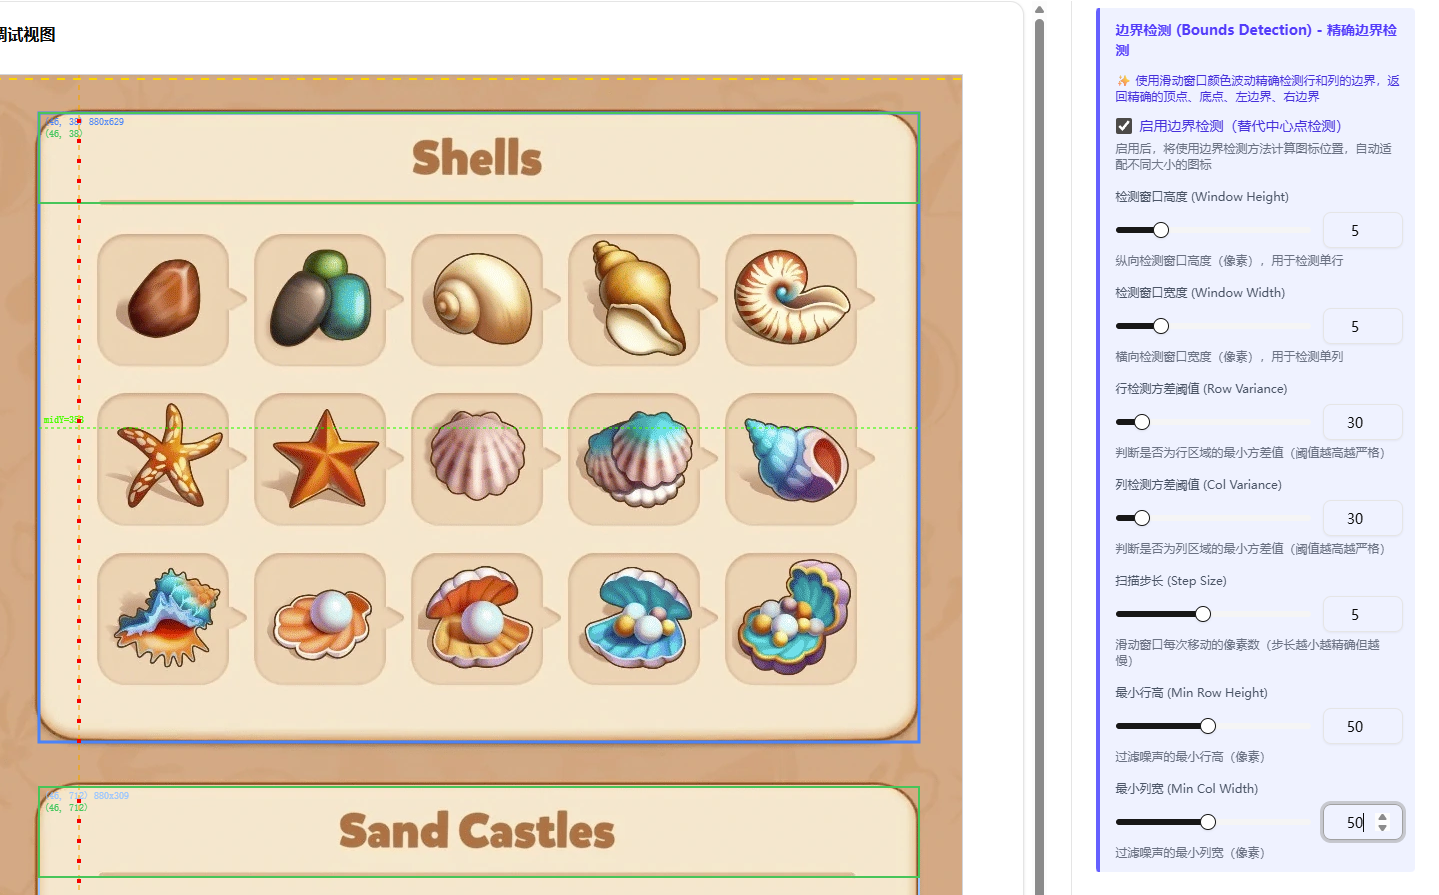
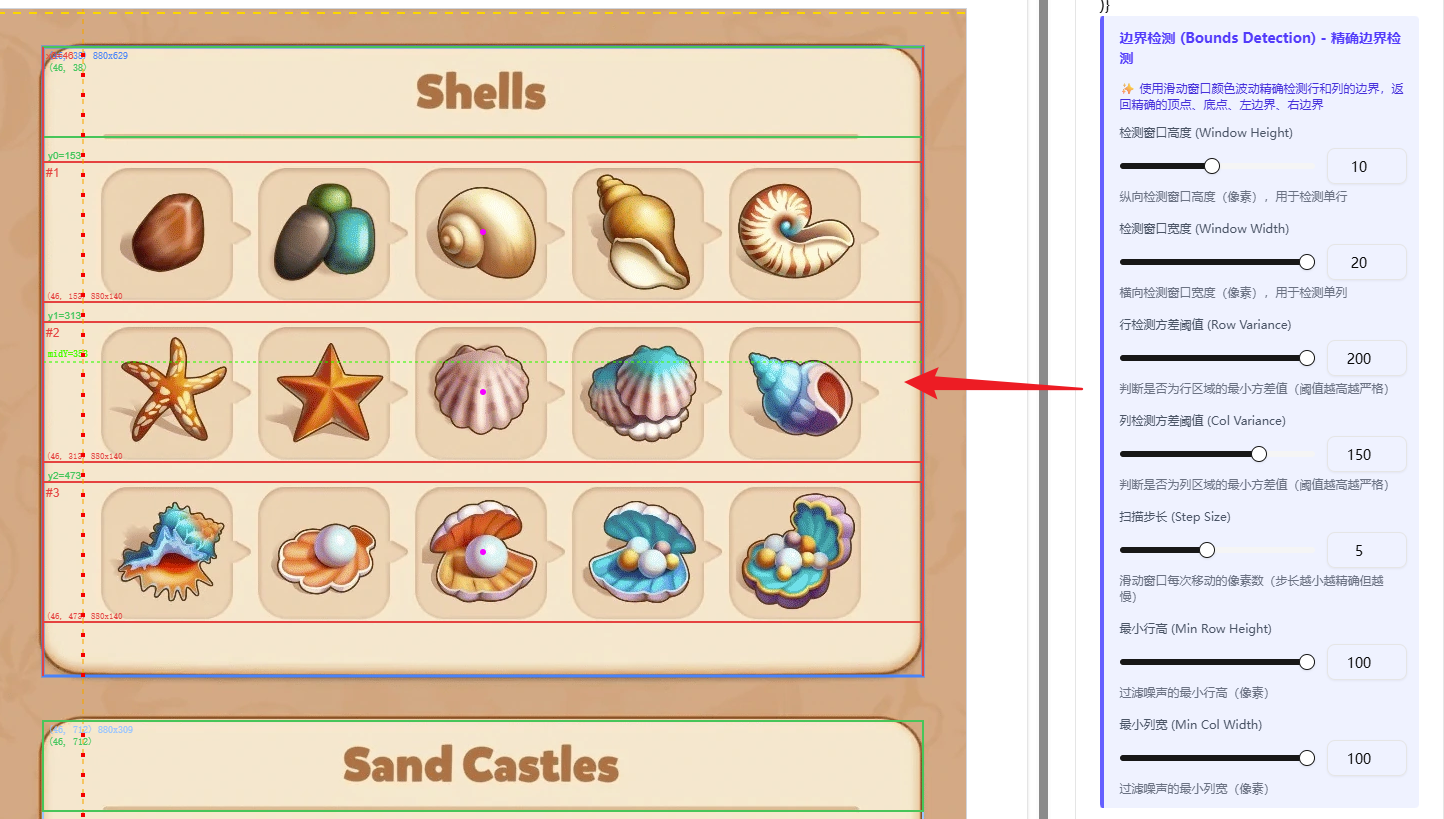
feat: 优化边界检测算法（行列独立阈值+扫描范围缩小）

diff --git a/src/app/debug/page.tsx b/src/app/debug/page.tsx
@@ -201,101 +201,6 @@ export default function WikiDebugPage() {
     return variance / (count * 3); // 返回平均方差
   };
 
-  // 计算图标位置（支持 total 限制 + 空图标过滤）- 使用中心点定位
-  const calculateIconPositions = useCallback((
-    panel: DebugPanel,
-    panelY: number,
-    ctx: CanvasRenderingContext2D
-  ): IconPosition[] => {
-    const { width, rows, cols, total } = panel;
-    const { gridStartX, gridStartY, iconSize, centerGapX, centerGapY, iconCenterOffsetX, iconCenterOffsetY } = params;
-
-    // 计算面板的左上角坐标（直接使用扫描线检测的坐标）
-    const panelX = panel.x;
-
-    // 首个中心点坐标（都基于检测到的 panelX 和 panelY）
-    const firstCenterX = panelX + gridStartX + iconCenterOffsetX;
-    const firstCenterY = panelY + gridStartY + iconCenterOffsetY;
-
-    const positions: IconPosition[] = [];
-    let count = 0;
-    const maxCount = total ?? (rows * cols); // 如果没有 total，则使用 rows * cols
-    const coreSize = 30; // 核心区域大小（正方形）
-    const varianceThreshold = 50; // 方差阈值，小于此值判定为空图标（降低阈值以提高灵敏度）
-
-    // 获取完整的像素数据
-    const imageData = ctx.getImageData(0, 0, ctx.canvas.width, ctx.canvas.height);
-
-    console.log(`  [详细坐标分析]`);
-    console.log(`    输入参数:`);
-    console.log(`      panel.x=${panel.x}, panel.y=${panel.y}`);
-    console.log(`      gridStartX=${gridStartX}, gridStartY=${gridStartY}`);
-    console.log(`      iconCenterOffsetX=${iconCenterOffsetX}, iconCenterOffsetY=${iconCenterOffsetY}`);
-    console.log(`    计算过程:`);
-    console.log(`      panelX = panel.x = ${panelX}`);
-    console.log(`      panelY = ${panelY}`);
-    console.log(`      firstCenterX = panelX + gridStartX + iconCenterOffsetX = ${panelX} + ${gridStartX} + ${iconCenterOffsetX} = ${firstCenterX}`);
-    console.log(`      firstCenterY = panelY + gridStartY + iconCenterOffsetY = ${panelY} + ${gridStartY} + ${iconCenterOffsetY} = ${firstCenterY}`);
-    console.log(`    首个图标左上角:`);
-    console.log(`      x = firstCenterX - iconSize/2 = ${firstCenterX} - ${iconSize/2} = ${firstCenterX - iconSize/2}`);
-    console.log(`      y = firstCenterY - iconSize/2 = ${firstCenterY} - ${iconSize/2} = ${firstCenterY - iconSize/2}`);
-
-    console.log(`  开始扫描图标位置，rows=${rows}, cols=${cols}, maxCount=${maxCount}`);
-    console.log(`  方差阈值: ${varianceThreshold}, 核心区域大小: ${coreSize}x${coreSize}`);
-    console.log(`  首个中心点: (${firstCenterX}, ${firstCenterY}), 中心点间距: X=${centerGapX}, Y=${centerGapY}`);
-
-    for (let row = 0; row < rows; row++) {
-      for (let col = 0; col < cols; col++) {
-        // 检查是否超过总数
-        if (count >= maxCount) {
-          break;
-        }
-
-        // 计算中心点坐标
-        const centerX = Math.round(firstCenterX + col * centerGapX);
-        const centerY = Math.round(firstCenterY + row * centerGapY);
-
-        // 从中心点计算左上角坐标（用于红框绘制）
-        const x = centerX - Math.round(iconSize / 2);
-        const y = centerY - Math.round(iconSize / 2);
-
-        // 获取icon中心区域的像素（用于检测空图标）
-        const coreX = centerX - Math.floor(coreSize / 2);
-        const coreY = centerY - Math.floor(coreSize / 2);
-
-        // 计算中心区域的颜色方差
-        const variance = calculateColorVariance(imageData, coreX, coreY, coreSize, coreSize);
-
-        const hasIcon = variance >= varianceThreshold;
-
-        console.log(`  [${row}, ${col}] 中心点: center(${centerX}, ${centerY}), 左上角: x=${x}, y=${y}, 方差=${variance.toFixed(2)}, ${hasIcon ? '✓ 有图标' : '✗ 空图标'}`);
-
-        if (hasIcon) {
-          positions.push({
-            x,  // 左上角 X
-            y,  // 左上角 Y
-            width: iconSize,
-            height: iconSize,
-            row,
-            col,
-          });
-          count++;
-        } else {
-          // 遇到空图标，直接结束当前面板的扫描
-          console.log(`  遇到空图标，结束面板扫描。共找到 ${positions.length} 个有效图标`);
-          return positions;
-        }
-      }
-      // 外层循环也需要检查，避免不必要的行
-      if (count >= maxCount) {
-        break;
-      }
-    }
-
-    console.log(`  扫描完成，共找到 ${positions.length} 个有效图标`);
-    return positions;
-  }, [params]);
-
   // 计算颜色差异
   const colorDiff = (color1: [number, number, number], color2: [number, number, number]): number => {
     return Math.max(
@@ -720,13 +625,23 @@ export default function WikiDebugPage() {
         // 使用边界检测方法检测图标位置
         console.log(`[检测方法] 使用边界检测方法`);
 
+        // 缩小扫描范围10像素，减少边界噪音
+        const padding = 10;
+        const scanX = range.startX + padding;
+        const scanY = range.startY + padding;
+        const scanWidth = range.width - padding * 2;
+        const scanHeight = range.height - padding * 2;
+
+        console.log(`[扫描范围] 原始: (${range.startX}, ${range.startY}) ${range.width}x${range.height}`);
+        console.log(`[扫描范围] 缩小: (${scanX}, ${scanY}) ${scanWidth}x${scanHeight}`);
+
         const bounds = detectAllBounds(
           Buffer.from(imageData.data),
           canvas.width,
-          range.startX,
-          range.startY,
-          range.width,
-          range.height,
+          scanX,
+          scanY,
+          scanWidth,
+          scanHeight,
           {
             windowHeight: params.boundsWindowHeight,
             windowWidth: params.boundsWindowWidth,
@@ -740,11 +655,28 @@ export default function WikiDebugPage() {
 
         console.log(`[边界检测] Panel: ${panel.title}`);
         console.log(`  检测到 ${bounds.rows.length} 行, ${bounds.cols.length} 列`);
+
+        // 警告：如果没有检测到行列
+        if (bounds.rows.length === 0) {
+          console.warn(`  ⚠ 未检测到任何行！请调整行检测参数：`);
+          console.warn(`    - 增大窗口高度 (当前: ${params.boundsWindowHeight})`);
+          console.warn(`    - 降低行检测方差阈值 (当前: ${params.boundsVarianceThresholdRow})`);
+          console.warn(`    - 降低最小行高 (当前: ${params.boundsMinRowHeight})`);
+        }
+
+        if (bounds.cols.length === 0) {
+          console.warn(`  ⚠ 未检测到任何列！请调整列检测参数：`);
+          console.warn(`    - 增大窗口宽度 (当前: ${params.boundsWindowWidth})`);
+          console.warn(`    - 降低列检测方差阈值 (当前: ${params.boundsVarianceThresholdCol})`);
+          console.warn(`    - 降低最小列宽 (当前: ${params.boundsMinColWidth})`);
+        }
+
         if (bounds.rows.length > 0) {
           bounds.rows.forEach((row, i) => {
             console.log(`  行 ${i}: y=${row.topY} ~ ${row.bottomY}, 高度=${row.height}`);
           });
         }
+
         if (bounds.cols.length > 0) {
           bounds.cols.forEach((col, i) => {
             console.log(`  列 ${i}: x=${col.leftX} ~ ${col.rightX}, 宽度=${col.width}`);
@@ -782,17 +714,17 @@ export default function WikiDebugPage() {
             ctx.strokeStyle = '#22C55E'; // 绿色
             ctx.lineWidth = 2;
             ctx.beginPath();
-            ctx.moveTo(range.startX, row.topY);
-            ctx.lineTo(range.startX + range.width, row.topY);
+            ctx.moveTo(scanX, row.topY);
+            ctx.lineTo(scanX + scanWidth, row.topY);
             ctx.stroke();
-            ctx.moveTo(range.startX, row.bottomY);
-            ctx.lineTo(range.startX + range.width, row.bottomY);
+            ctx.moveTo(scanX, row.bottomY);
+            ctx.lineTo(scanX + scanWidth, row.bottomY);
             ctx.stroke();
 
             // 标注行号
             ctx.fillStyle = '#22C55E';
             ctx.font = '10px Arial';
-            ctx.fillText(`y${row.rowIndex}=${Math.round(row.topY)}`, range.startX + 5, row.topY - 3);
+            ctx.fillText(`行${row.rowIndex}: y=${Math.round(row.topY)}~${Math.round(row.bottomY)}`, scanX + 5, row.topY - 3);
           });
 
           // 绘制列边界（红色竖线）
@@ -800,18 +732,26 @@ export default function WikiDebugPage() {
             ctx.strokeStyle = '#EF4444'; // 红色
             ctx.lineWidth = 2;
             ctx.beginPath();
-            ctx.moveTo(col.leftX, range.startY);
-            ctx.lineTo(col.leftX, range.startY + range.height);
+            ctx.moveTo(col.leftX, scanY);
+            ctx.lineTo(col.leftX, scanY + scanHeight);
             ctx.stroke();
-            ctx.moveTo(col.rightX, range.startY);
-            ctx.lineTo(col.rightX, range.startY + range.height);
+            ctx.moveTo(col.rightX, scanY);
+            ctx.lineTo(col.rightX, scanY + scanHeight);
             ctx.stroke();
 
             // 标注列号
             ctx.fillStyle = '#EF4444';
             ctx.font = '10px Arial';
-            ctx.fillText(`x${col.colIndex}=${Math.round(col.leftX)}`, col.leftX + 3, range.startY + 12);
+            ctx.fillText(`列${col.colIndex}: x=${Math.round(col.leftX)}~${Math.round(col.rightX)}`, col.leftX + 3, scanY + 12);
           });
+
+          // 在右上角显示检测统计
+          ctx.fillStyle = 'rgba(0, 0, 0, 0.7)';
+          ctx.fillRect(scanX + scanWidth - 150, scanY, 150, 40);
+          ctx.fillStyle = '#FFFFFF';
+          ctx.font = '12px Arial';
+          ctx.fillText(`检测到: ${bounds.rows.length}行 × ${bounds.cols.length}列`, scanX + scanWidth - 145, scanY + 15);
+          ctx.fillText(`预计图标: ${bounds.rows.length * bounds.cols.length}个`, scanX + scanWidth - 145, scanY + 32);
         }
 
         // 绘制红色框（使用边界检测计算的精确边界）
@@ -822,10 +762,10 @@ export default function WikiDebugPage() {
           ctx.lineWidth = 2;
           ctx.strokeRect(leftX, topY, width, height);
 
-          // 绘制序号
+          // 绘制序号（行列格式）
           ctx.fillStyle = '#EF4444';
           ctx.font = '12px Arial';
-          ctx.fillText(`#${row * bounds.cols.length + col + 1}`, leftX + 3, topY + 15);
+          ctx.fillText(`[${row},${col}]`, leftX + 3, topY + 15);
 
           // 绘制红框坐标
           ctx.fillStyle = '#EF4444';
@@ -912,7 +852,7 @@ export default function WikiDebugPage() {
 
     // 设置图片源（触发加载）
     img.src = imageUrl;
-  }, [imageUrl, debugPanels, selectedPanelIndex, params, scanVerticalLine, scanHorizontalLine, calculateIconPositions]);
+  }, [imageUrl, debugPanels, selectedPanelIndex, params, scanVerticalLine, scanHorizontalLine]);
 
   // 重新绘制Canvas
   useEffect(() => {
@@ -1582,13 +1522,12 @@ export default function WikiDebugPage() {
                     </div>
                   </div>
                 </div>
-                )}
 
-                {/* 边界检测相关 */}
+                {/* Bounds Detection */}
                 <div className="border-l-4 border-indigo-500 pl-4 bg-indigo-50 p-3 rounded">
-                  <Label className="text-sm font-semibold text-indigo-600 mb-3 block">边界检测 (Bounds Detection) - 精确边界检测</Label>
+                  <Label className="text-sm font-semibold text-indigo-600 mb-3 block">Bounds Detection</Label>
                   <p className="text-xs text-indigo-700 mb-3">
-                    ✨ 使用滑动窗口颜色波动精确检测行和列的边界，返回精确的顶点、底点、左边界、右边界
+                    Use sliding window color variance to detect row and column boundaries precisely.
                   </p>
 
                   <div className="space-y-4">
@@ -1889,28 +1828,6 @@ export default function WikiDebugPage() {
                   </p>
                 </div>
               )}
-
-              <div className="mt-4 p-3 bg-yellow-100 rounded">
-                <strong>红框坐标示例（选中面板的第一个图标）：</strong>
-                {selectedPanelIndex < debugPanels.length && (() => {
-                  const positions = calculateIconPositions(
-                    debugPanels[selectedPanelIndex],
-                    0, // 只用于示例
-                    canvasRef.current.getContext('2d')!
-                  );
-                  if (positions.length > 0) {
-                    const pos = positions[0];
-                    return (
-                      <div className="mt-2 text-xs">
-                        <p>左上角：x={pos.x}, y={pos.y}</p>
-                        <p>中心点：x={pos.x + Math.round(pos.width / 2)}, y={pos.y + Math.round(pos.height / 2)}</p>
-                        <p>尺寸：{pos.width} x {pos.height}</p>
-                      </div>
-                    );
-                  }
-                  return <p className="mt-2">无图标</p>
-                })()}
-              </div>
             </CardContent>
           </Card>
         );
